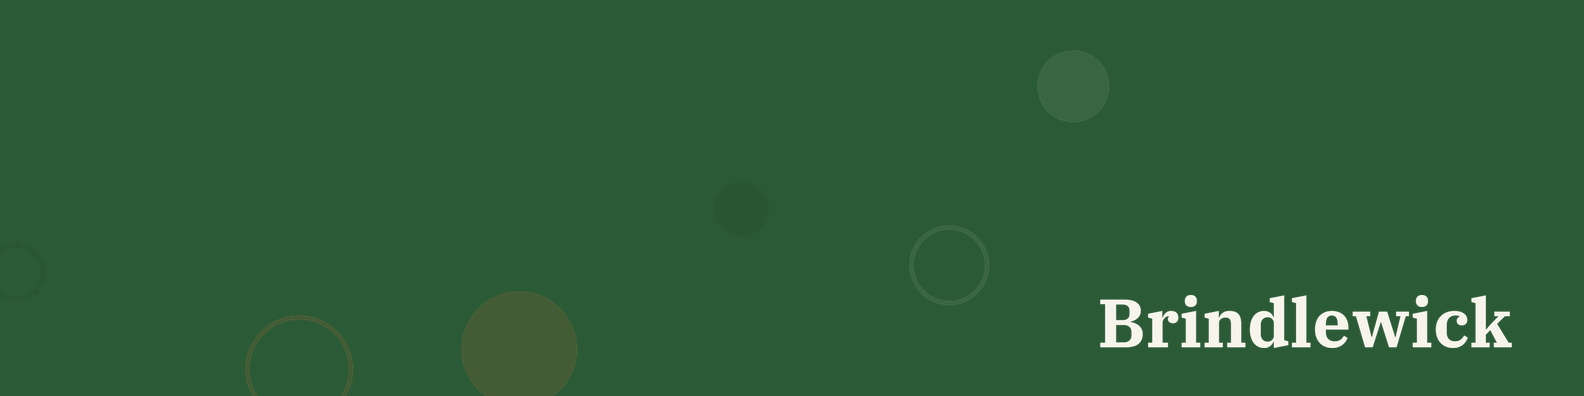
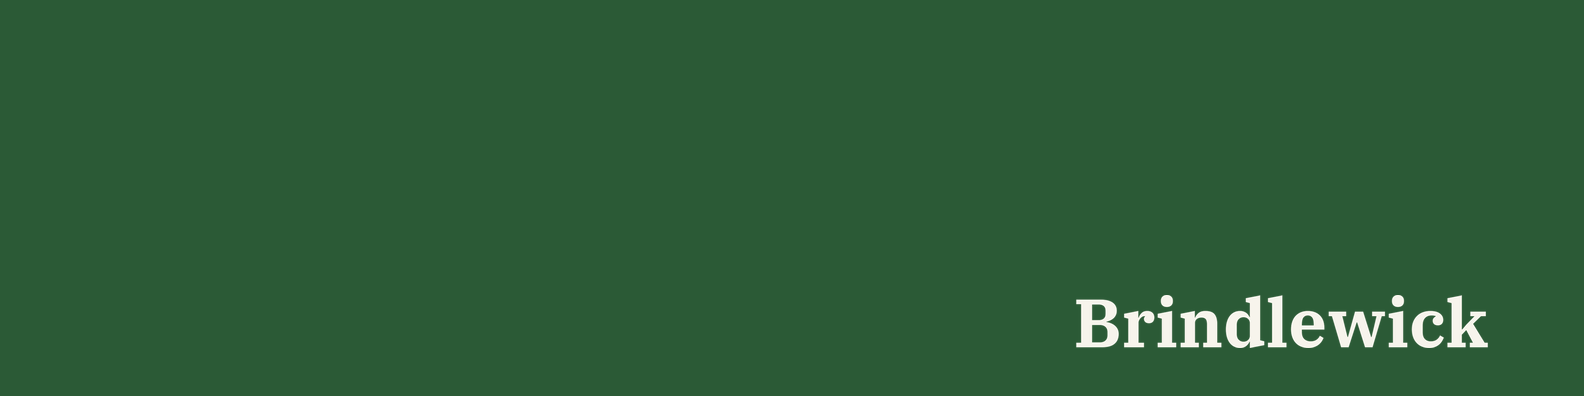
WS-27: update the Brindlewick example for the fixed skill
Regenerated assets (plain banners, site.webmanifest), tokens.css and
previews; gap markers normalised to [Open: ...]; README Next: line,
Using the files and a full open-items list; plain-banner decision.

Changed region(s): [[0.6806, 0.7273, 0.959, 0.8788], [0.1856, 0.7879, 0.2165, 0.8182]]

diff --git a/examples/brindlewick/brand/style-guide/tokens.css b/examples/brindlewick/brand/style-guide/tokens.css
@@ -7,10 +7,10 @@
   --color-neutral-300: #CFC9BA;
   --color-neutral-500: #6B675C;
   --color-neutral-700: #45423B;
-  --font-heading: "IBM Plex Serif";
+  --font-heading: "IBM Plex Serif", Georgia, "Times New Roman", serif;
   --font-heading-weight: 700;
-  --font-body: "IBM Plex Sans";
+  --font-body: "IBM Plex Sans", system-ui, -apple-system, "Segoe UI", Arial, sans-serif;
   --font-body-weight: 400;
-  --font-mono: "IBM Plex Mono";
+  --font-mono: "IBM Plex Mono", ui-monospace, Menlo, Consolas, monospace;
   --font-mono-weight: 400;
 }

diff --git a/examples/brindlewick/brand/README.md b/examples/brindlewick/brand/README.md
@@ -13,6 +13,9 @@ brand. claude.ai: start a new chat, upload the latest `brand.zip` and ask Claude
 - Language of the documents: English (UK)
 - Logo: wordmark and "B" tile; a designer brief for a symbol is ready (style-guide/designer-brief.md)
 
+Next: all stages are done. Work through the open items below, starting with the designer brief
+and the two signup and application questions.
+
 ## Progress
 - [x] 0 Intake: research/intake-notes.md, decisions.md
 - [x] 1 Research: research/competitor-analysis.md
@@ -23,7 +26,10 @@ brand. claude.ai: start a new chat, upload the latest `brand.zip` and ask Claude
 - [x] 6 Assets: assets/, CLAUDE-INSTRUCTIONS.md
 
 ## Using the files
-- **Email signatures:** upload `assets/logos/mark-tile-160.png` so it loads at
+- **Where the files are:** logos in `assets/logos/`, favicons and the web manifest in
+  `assets/favicons/`, profile and banner images in `assets/social/`, the link preview at
+  `assets/og-image.png`, signatures in `assets/email-signatures/`, fonts in `assets/fonts/`.
+- **Email signatures:** Tom uploads `assets/logos/mark-tile-160.png` so it loads at
   https://brindlewick.example/brand/mark-tile-160.png (check it in a private window), then follow
   `assets/email-signatures/README.md`.
 - **Website:** put the files from `assets/favicons/` and `assets/og-image.png` in the site's root
@@ -32,6 +38,7 @@ brand. claude.ai: start a new chat, upload the latest `brand.zip` and ask Claude
   <link rel="icon" href="/favicon.svg" type="image/svg+xml">
   <link rel="icon" href="/favicon-32.png" sizes="32x32" type="image/png">
   <link rel="apple-touch-icon" href="/apple-touch-icon.png">
+  <link rel="manifest" href="/site.webmanifest">
   <meta property="og:image" content="https://brindlewick.example/og-image.png">
   ```
 - **Social profiles:** see the table in `style-guide/social-branding.md`.
@@ -41,28 +48,51 @@ brand. claude.ai: start a new chat, upload the latest `brand.zip` and ask Claude
   of the repository, with `brand/` in that repository.
 
 ## Open items
-- A specific best-customer story (research/intake-notes.md, open questions).
-- Why shops leave or decide not to sign up (research/intake-notes.md, open questions).
+Every gap in the documents is marked `[Open: ...]`; `grep -rn "\[Open:" brand` lists them. Each
+marker is below, with the file it sits in.
+
+Research
+- A specific best-customer story (research/intake-notes.md, open questions; also
+  strategy/audience-shop-owners.md, what we do not know yet).
+- Why shops leave or decide not to sign up (research/intake-notes.md, open questions; also
+  strategy/audience-shop-owners.md).
 - Whether and when the brand needs Dutch (research/intake-notes.md, open questions).
-- Competitor headlines and colours were not captured; the analysis rests on Maya's descriptions
-  (research/competitor-analysis.md, limits).
+- How many distributors are in the catalogue and which can be named (research/intake-notes.md;
+  strategy/audience-distributors.md, twice; strategy/positioning.md, option C proof).
+- Competitor headlines, proof, colours and type, including the three positioning lines that could
+  not be captured (research/competitor-analysis.md, competitors and limits).
+- Dutch competitors, if any (research/competitor-analysis.md, limits).
+
+Audiences and value propositions
+- Shop owners: what triggers a search, success in their words, two assumptions (evidence they
+  trust, who else has a say), setup time, whether Dutch shops respond to the same message
+  (strategy/audience-shop-owners.md).
+- Distributors: who the contacts are, what triggers interest, what success looks like, how they
+  find Brindlewick (all assumptions to check with Tom), and who decides to list
+  (strategy/audience-distributors.md).
+- Hires: what triggers a search, whether they find the company on LinkedIn, what puts them off,
+  where applicants come from (strategy/audience-hires.md).
 - Honest setup time for a new shop (strategy/value-propositions.md, shop owners).
 - Whether to publish the price (strategy/value-propositions.md, shop owners).
+- Distributor and hire objections are assumed; replace them with real ones
+  (strategy/value-propositions.md, two markers).
 - Whether any order figures can be shared with distributors (strategy/value-propositions.md).
 - What Maya will say about funding to candidates (strategy/value-propositions.md, hires).
-- What triggers a shop's search, and what success looks like in their words
-  (strategy/audience-shop-owners.md).
-- How many distributors are listed, and which can be named (strategy/audience-distributors.md).
+
+Messaging and voice
 - What comes next for the product, in a form that can be said in public
   (strategy/messaging-framework.md, product story).
+- Tom's voice note rests on one sample: words he would never use and habits to watch need two or
+  three more posts (strategy/writing-anti-patterns.md, research/source/voices/tom-reyes.md).
+
+Style guide
 - Where approved photos are kept and who looks after them (style-guide/photography-direction.md).
-- Designer budget, timeline and number of concepts (style-guide/designer-brief.md).
+- Designer budget, timeline and number of concepts (style-guide/designer-brief.md, three markers).
+
+Communications
+- How quickly comments get a reply, and who handles press (communications/communication-strategy.md,
+  two markers).
+
+Not marked in a document
 - Add "How did you hear about us?" at signup and "Where did you see this job?" to applications;
   the measurement depends on them (communications/communication-strategy.md).
-- How quickly comments get a reply, and who handles press (communications/communication-strategy.md).
-- Replace the circle pattern on the banners and link preview; part of the designer commission
-  (style-guide/designer-brief.md).
-- Check the wordmark on the LinkedIn personal banner on a phone; it sits near the right edge
-  (assets/social/linkedin-banner-1584x396.png).
-- Tom's voice note rests on one sample; add two or three more posts
-  (strategy/writing-anti-patterns.md, research/source/voices/tom-reyes.md).

diff --git a/examples/brindlewick/brand/strategy/audience-shop-owners.md b/examples/brindlewick/brand/strategy/audience-shop-owners.md
@@ -12,18 +12,18 @@ at nine at night (Maya, intake). Maya was one of them, in Leeds, for six years.
 - **What gets in the way:** the phone ringing during a repair; customers who do not know their
   bike is ready; ordering parts from several distributors who name the same part differently
   (Tom's post); admin pushed into the evening.
-- **What triggers a search:** [Not known yet. Maya's guess: a busy season when the paper diary
+- **What triggers a search:** [Open: what triggers it. Maya's guess: a busy season when the paper diary
   overflows. Check by asking the next ten shops that sign up what made them look.]
-- **What success looks like:** [Not known in their words yet. Maya's view: fewer calls during
+- **What success looks like:** [Open: success in their words. Maya's view: fewer calls during
   repairs, no evening admin. Check with customer interviews.]
 
 ## How they find and judge us
 - **Where they look and who they ask:** other shops, mostly (Maya). Other routes are not tracked.
-- **Evidence they trust:** another mechanic's word. Assumption, based on Maya's experience; check
-  by adding "how did you hear about us?" to signup.
+- **Evidence they trust:** another mechanic's word. [Open: assumption, based on Maya's experience;
+  check by adding "how did you hear about us?" to signup.]
 - **What puts them off:** anything that looks like it needs a training day (Maya's guess).
 - **Who else has a say:** usually nobody; they are the owner. Sometimes a business partner or a
-  second mechanic. Assumption.
+  second mechanic. [Open: assumption; check with the next shops that sign up.]
 
 ## What they are not getting today
 - From the paper diary and WhatsApp: customers can book only by phoning or messaging, and every
@@ -36,13 +36,14 @@ at nine at night (Maya, intake). Maya was one of them, in Leeds, for six years.
 - Nobody in the set talks like someone who has worked at the stand (competitor analysis, gaps).
 
 ## What we do not know yet
-- Why shops leave or do not sign up. Maya's guess: changing feels like more admin. Check: ask
-  every shop that cancels or stalls in a trial.
-- How long it takes a typical shop to get going. Check: the support team's onboarding records.
-- Whether Dutch shops respond to the same message. Check: ask the 20 Dutch shops how they heard of
-  Brindlewick and why they signed up.
-- A best-customer story Brindlewick can tell in public. Check: Maya to ask two or three shops for
-  permission.
+- [Open: why shops leave or do not sign up.] Maya's guess: changing feels like more admin. Check:
+  ask every shop that cancels or stalls in a trial.
+- [Open: how long it takes a typical shop to get going.] Check: the support team's onboarding
+  records.
+- [Open: whether Dutch shops respond to the same message.] Check: ask the 20 Dutch shops how they
+  heard of Brindlewick and why they signed up.
+- [Open: a best-customer story Brindlewick can tell in public.] Check: Maya to ask two or three
+  shops for permission.
 
 ## Key insight
 They judge software by whether it fits the working day at the stand, and they trust another

diff --git a/examples/brindlewick/brand/strategy/value-propositions.md b/examples/brindlewick/brand/strategy/value-propositions.md
@@ -16,13 +16,13 @@ repair shop.**
 | 140 shops in the UK and Ireland use it, and about 20 in the Netherlands | Company records |
 
 ### Objections and answers
-- **"I haven't got time to set it up":** [Not decided yet: an honest setup time from the support
-  team's onboarding records.] Until then, say what setup involves, not how fast it is.
+- **"I haven't got time to set it up":** [Open: an honest setup time from the support team's
+  onboarding records.] Until then, say what setup involves, not how fast it is.
 - **"My customers just WhatsApp me":** they can keep doing that. Brindlewick takes the bookings
   that would otherwise be a call, and texts them when the bike is ready, so there are fewer
   messages to answer by hand.
-- **"What does it cost?":** a monthly subscription per shop. [Not decided yet: whether to publish
-  the price.]
+- **"What does it cost?":** a monthly subscription per shop. [Open: whether to publish the
+  price.]
 
 ### What we do not claim
 - Any number of hours or calls saved: not measured.
@@ -41,11 +41,11 @@ matched on manufacturer part number whatever you call them.**
 | 140 shops in the UK and Ireland and about 20 in the Netherlands | Company records |
 
 ### Objections and answers
-Assumed objections: the founders have not heard these yet. Replace them
-with real ones as they come up.
+[Open: assumed objections; the founders have not heard these yet. Replace them
+with real ones as they come up.]
 
-- **"How many orders will we get?":** [Not decided yet: whether any order figures can be shared,
-  and with whom. Never in public.]
+- **"How many orders will we get?":** [Open: whether any order figures can be shared, and with
+  whom. Never in public.]
 - **"We already sell online":** shops still have to search each distributor's site separately.
   In Brindlewick they search once.
 
@@ -66,10 +66,10 @@ engineer run the show.**
 | A small team: nine people | Company records |
 
 ### Objections and answers
-Assumed objections: the founders have not heard these yet. Replace them
-with real ones as they come up.
+[Open: assumed objections; the founders have not heard these yet. Replace them
+with real ones as they come up.]
 
-- **"Is a seed company stable?":** [Not decided yet: what Maya is willing to say about funding.]
+- **"Is a seed company stable?":** [Open: what Maya is willing to say about funding.]
 - **"Do I need to be a mechanic?":** no. Liking bikes helps.
 
 ### What we do not claim

diff --git a/examples/brindlewick/brand/strategy/audience-distributors.md b/examples/brindlewick/brand/strategy/audience-distributors.md
@@ -2,21 +2,23 @@
 
 ## Who they are
 Bike parts distributors that want their catalogue listed in Brindlewick so that shops order from
-them. Which distributors, and how many are listed today, is not known in this document (open
-question for Tom). The people Brindlewick deals with there are not yet named: probably a sales or
-e-commerce manager. Assumption.
+them. [Open: which distributors, and how many are listed today; a question for Tom.] The people
+Brindlewick deals with there are not yet named: probably a sales or e-commerce manager.
+[Open: assumption; check with Tom.]
 
 ## What they need
 - **The job:** get orders from independent repair shops.
 - **What gets in the way:** shops searching for a part by a name the distributor does not use.
   Distributors "name the same brake pad four different ways" (Tom's post), so a shop searching
   by name can miss a distributor's listing.
-- **What triggers interest:** [Not known yet. Check with Tom: how did the first distributors come
-  to be listed?]
-- **What success looks like:** orders from shops through the catalogue. Assumption.
+- **What triggers interest:** [Open: what triggers it. Check with Tom: how did the first distributors
+  come to be listed?]
+- **What success looks like:** orders from shops through the catalogue. [Open: assumption; check
+  with Tom.]
 
 ## How they find and judge us
-- Probably through Tom or Maya directly, and through the shops that ask for them. Assumption.
+- Probably through Tom or Maya directly, and through the shops that ask for them. [Open:
+  assumption; check with Tom.]
 - Evidence they trust: the number of shops on Brindlewick (140 in the UK and Ireland, about 20 in
   the Netherlands) and, later, order volumes. Order volumes are not public.
 
@@ -25,8 +27,8 @@ A shop on a paper diary orders by phone or on each distributor's own site, one a
 distributor whose part names differ from the shop's search terms is easy to miss.
 
 ## What we do not know yet
-- How many distributors are listed and which can be named. Check: Tom.
-- Who at a distributor decides to list. Check: Tom's notes from the first listings.
+- [Open: how many distributors are listed and which can be named.] Check: Tom.
+- [Open: who at a distributor decides to list.] Check: Tom's notes from the first listings.
 - What distributors would pay for, if anything. Not part of this brand work.
 
 ## Key insight

diff --git a/examples/brindlewick/brand/research/competitor-analysis.md b/examples/brindlewick/brand/research/competitor-analysis.md
@@ -24,7 +24,7 @@ No admired brand is in the set; Maya did not name one.
 
 ### ShopLedger
 - **Website:** not checked (no web access).
-- **Positioning line:** [Not captured: no copy available.] Maya: it sells itself as
+- **Positioning line:** [Open: their headline; no copy available.] Maya: it sells itself as
   "all-in-one".
 - **Audience:** retail shops in general; bike repairs come as an add-on. Seems to ignore the
   shop where repairs, not sales, are the business.
@@ -36,7 +36,7 @@ No admired brand is in the set; Maya did not name one.
 
 ### SpokeDesk
 - **Website:** not checked (no web access).
-- **Positioning line:** [Not captured: no copy available.]
+- **Positioning line:** [Open: their headline; no copy available.]
 - **Audience:** US repair shops.
 - **Proof they lead with:** not known.
 - **Tone:** "slick" (Maya). No quote available.
@@ -46,7 +46,7 @@ No admired brand is in the set; Maya did not name one.
 
 ### Workshop Pro
 - **Website:** not checked (no web access).
-- **Positioning line:** [Not captured: no copy available.]
+- **Positioning line:** [Open: their headline; no copy available.]
 - **Audience:** established shops; Maya says its older users are loyal.
 - **Proof they lead with:** not known.
 - **Tone:** not known.
@@ -119,6 +119,7 @@ someone who has worked in a shop.
 
 ## Limits of this analysis
 - No competitor website, copy, colour value, type or imagery was checked. Everything is Maya's
-  description.
+  description. [Open: competitor headlines, proof, colours and type; screenshots or pasted copy
+  from Maya, or a session with web access.]
 - No background knowledge was added: the competitors are not known outside this interview.
-- The Dutch market was not looked at. Dutch competitors, if any, are unknown.
+- The Dutch market was not looked at. [Open: Dutch competitors, if any.]

diff --git a/examples/brindlewick/brand/style-guide/designer-brief.md b/examples/brindlewick/brand/style-guide/designer-brief.md
@@ -56,9 +56,9 @@ the designer can make one that no other bike business already has.
 - Full colour, black and white versions.
 - A square version legible at 16 px, for the favicon and app icon.
 - SVG and PNG files, and the source files.
-- Backgrounds for the social banners and the video-call background, in place of the generated
-  circle pattern, which Maya feels looks "like bubbles, not a workshop". Something closer to
-  steel or enamel, or plain.
+- Backgrounds for the social banners and the video-call background, in place of the plain green
+  field the build produces. Maya turned down the generated circle pattern as "like bubbles, not a
+  workshop". Something closer to steel or enamel, or plain.
 
 ## Where it will be used
 Website, the product (a web app used on phones and tablets in workshops), social avatars,
@@ -66,11 +66,10 @@ documents and quotes sent to shop customers, email signatures, and possibly stic
 customer shops.
 
 ## Practical details
-- Budget: [Not decided yet: Maya says "small"; a figure is needed before approaching designers.]
-- Timeline: [Not decided yet.]
+- Budget: [Open: Maya says "small"; a figure is needed before approaching designers.]
+- Timeline: [Open: when the logo is needed.]
 - Decision maker: Maya Okafor, with Tom Reyes consulted.
-- Concepts and revisions: [Not decided yet: suggest two or three concepts and two rounds of
-  revisions.]
+- Concepts and revisions: [Open: suggest two or three concepts and two rounds of revisions.]
 
 ## Ownership
 All rights in the final logo and its source files pass to Brindlewick on payment.

diff --git a/examples/brindlewick/brand/strategy/audience-hires.md b/examples/brindlewick/brand/strategy/audience-hires.md
@@ -8,19 +8,20 @@ to hire more in the next twelve months (Maya, intake). Riding matters: "we like 
 - **The job they want:** work on a product they understand from the saddle, at a small company
   where their work shows.
 - **What gets in the way:** most software jobs have nothing to do with bikes.
-- **What triggers a search:** [Not known yet. Check by asking each new hire what made them apply.]
+- **What triggers a search:** [Open: what triggers it. Check by asking each new hire what made them
+  apply.]
 
 ## How they find and judge us
-- LinkedIn, Maya assumes. Not checked.
+- LinkedIn, Maya assumes. [Open: assumption; check with the application question below.]
 - They will read the founders' posts. Tom's posts on how the product is built are the best
   evidence an engineer gets of how the team works.
-- What puts them off: [Not known yet. Ask candidates who decline.]
+- What puts them off: [Open: what puts them off. Ask candidates who decline.]
 
 ## What they are not getting today
 A software job where knowing how a hub is serviced counts for something.
 
 ## What we do not know yet
-- Where applicants actually come from. Check: add "where did you see this job?" to the
+- [Open: where applicants actually come from.] Check: add "where did you see this job?" to the
   application.
 - Pay, location and remote work: not covered in this brand work.
 

diff --git a/examples/brindlewick/brand/strategy/writing-anti-patterns.md b/examples/brindlewick/brand/strategy/writing-anti-patterns.md
@@ -155,9 +155,9 @@ This note rests on a single sample. Add two or three more of Tom's posts to
   with "so". Opens with what changed and when ("We rebuilt the parts search last month.").
 - **Words he uses:** the precise technical term when it matters ("manufacturer part number"),
   concrete examples from the trade ("the same brake pad four different ways").
-- **Words he would never use:** [Not known yet: needs more samples.]
+- **Words he would never use:** [Open: needs more samples.]
 - **Habits to keep:** giving the reason for each decision, with a real example.
-- **Habits to watch:** [Not known yet: needs more samples. Long technical posts are prone to
+- **Habits to watch:** [Open: needs more samples. Long technical posts are prone to
   lists where prose belongs; check for that.]
 - **Samples:** `research/source/voices/tom-reyes.md`. "We rebuilt the parts search last month.
   Distributors name the same brake pad four different ways, so we match on the manufacturer part

diff --git a/examples/brindlewick/brand/research/intake-notes.md b/examples/brindlewick/brand/research/intake-notes.md
@@ -97,7 +97,7 @@ customer when the bike's ready, and reorder parts from distributors in one place
 - "Made by someone who's actually run a shop." (Maya, interview, tentative)
 
 ## Open questions
-- A specific best-customer story: who, what they used before, why they chose Brindlewick. Maya.
-- Why shops leave or decide not to sign up. Maya, from support and sales notes.
-- Whether the brand needs Dutch, and when. Maya.
-- How many distributors are in the parts catalogue, and which can be named. Tom.
+- [Open: a specific best-customer story: who, what they used before, why they chose Brindlewick.] Maya.
+- [Open: why shops leave or decide not to sign up.] Maya, from support and sales notes.
+- [Open: whether the brand needs Dutch, and when.] Maya.
+- [Open: how many distributors are in the parts catalogue, and which can be named.] Tom.

diff --git a/examples/brindlewick/brand/decisions.md b/examples/brindlewick/brand/decisions.md
@@ -218,3 +218,14 @@ entry is last.
 - **Why:** Maya: the circles "look like bubbles, not a workshop", but "keep them for now and put it
   in the designer brief."
 - **Replaces:** nothing
+
+## 2026-11-20 Plain banners
+
+- **Stage:** 6 Assets
+- **Decision:** The banners, the video-call background and the link preview are a plain enamel
+  green field with the wordmark, with no pattern (`banner_pattern` is left out of
+  `assets/config.json`). A designer's background stays in the designer brief.
+- **Alternatives considered:** keeping the generated circle pattern until a designer replaces it.
+- **Why:** Maya turned the circles down as "bubbles, not a workshop", and the asset build can now
+  leave them out.
+- **Replaces:** 2026-11-20 Banner pattern kept for now

diff --git a/examples/brindlewick/brand/communications/communication-strategy.md b/examples/brindlewick/brand/communications/communication-strategy.md
@@ -101,10 +101,10 @@ Maya does the adapting; it is part of her two hours a month on the email.
 See the channel calibration in `strategy/messaging-framework.md`.
 
 ### Replies and difficult moments
-- Maya answers comments on her posts, Tom on his. [Not decided yet: how quickly.]
+- Maya answers comments on her posts, Tom on his. [Open: how quickly.]
 - Product complaints in public get a short reply from the author and go to support, who follow up
   directly.
-- [Not decided yet: who handles press enquiries. Maya, unless she says otherwise.]
+- [Open: who handles press enquiries. Maya, unless she says otherwise.]
 - If something serious happens in public, Maya decides what Brindlewick says and when.
 
 ## Measurement
